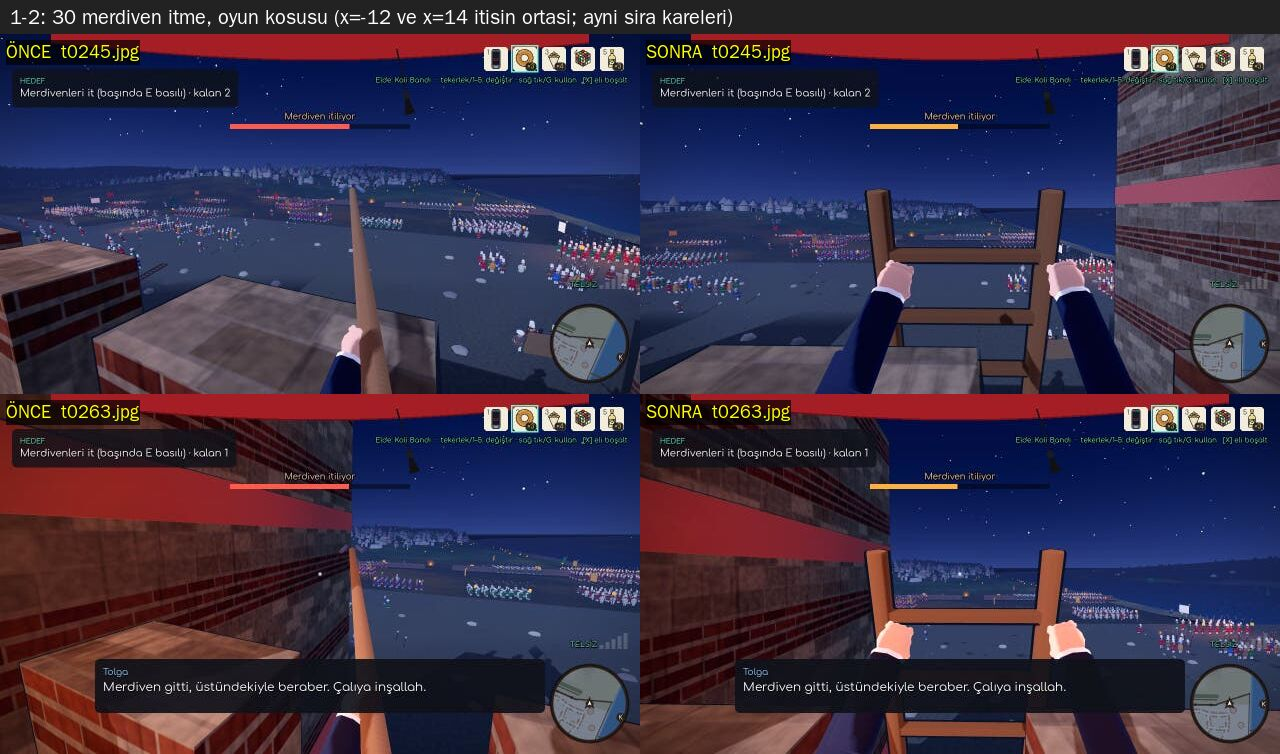
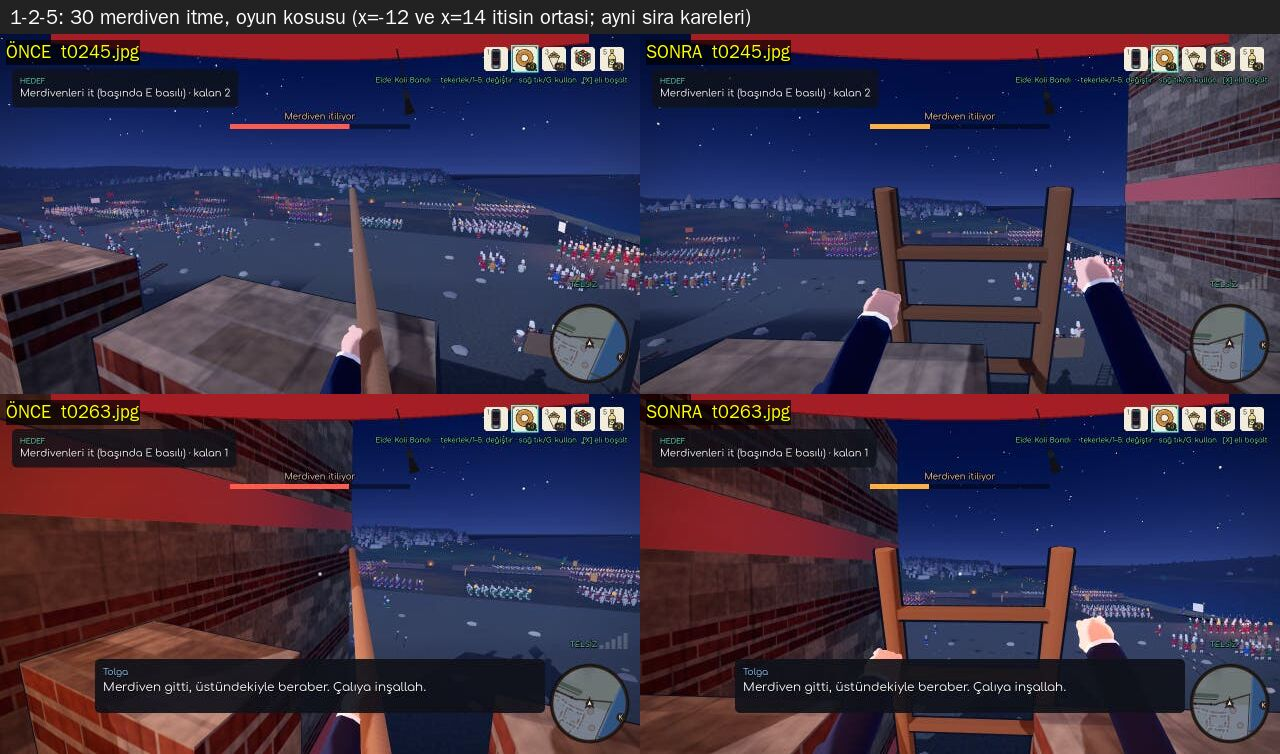
P9 düzeltme: rapor, paftalar, ilk tur raporuna düzeltme notu
Claude-Session: https://claude.ai/code/session_01RAjzxMRjCpkJmqpchgPJpJ

diff --git a/docs/_kanit_dp9/rapor.md b/docs/_kanit_dp9/rapor.md
@@ -1,0 +1,107 @@
+# P9 düzeltme turu — Blakhernai (30, 30o) — geliştirici raporu
+
+Dal: `wip/duzeltme-p9`. Değişen oyun dosyaları yalnız: `scripts/chapter30.gd`, `scripts/chapter30o.gd`,
+`scripts/level/blachernae.gd` (yalnız `_field_wear` ve yeni yardımcısı `_wear_bake`). `player.gd`, `stage.gd`,
+`shadow_body.gd` vb. değişmedi.
+
+**ÖNCE nasıl kuruldu.** Depo dışında bir kopya proje (`/home/user/once_proj`): `chapter30.gd` ve `chapter30o.gd`
+`e551de84`'ten aynen; `blachernae.gd` için `e551de84` sürümü bugünkü ortak dosyalarla derlenmiyor (`shell_parts` yok),
+bu yüzden bugünkü dosya alınıp yalnız `_ground` işlevi `e551de84`'teki hâline (altı ova levhası, ayrıntı yok) döndürüldü.
+(`a5e8111d` = `e551de84` bu üç dosyada.) Depodaki dosyalara dokunulmadı.
+
+**Kanıt türleri.** (a) Oyun koşusu: ekranlı `PACE=1 RINFO=1 … --autotest --hitchaudit --dialogshots --shotevery=1
+--snapevery=0.5`, ÖNCE ve SONRA birer koşu; çiftler aynı replik karesi ya da aynı sıra numaralı anlık kare (`tNNNN`).
+(b) Sonda (adı `sonda_`): `tests/_tmp/` altında geçici betikler (gitignore'da; depoya girmedi, oyun koduna kanca
+konmadı). **Sondalar oynanışı değiştirir:** 30 sondası dört konumun hepsi sınansın diye bölüme iki merdiven daha ekler
+(bot dört merdiveni iter); 30o sondası sur tarafı sınamasında oyuncuyu taşımanın sonunda verilen noktaya ışınlar.
+
+## Madde madde (denetçinin ZORUNLU 1–10'u)
+
+| # | Ne yapıldı (dosya:işlev) | Ölçüm / kare | Durum |
+|---|---|---|---|
+| 1 | Asıl neden: merdiven başı yürüyüş yolunun yalnız 0,1 m üstündeydi, 1,1 m'lik mazgal dişinin arkasında; hiçbir bakıştan görünmüyordu. `chapter30.gd`: merdiven boyu `LAD_H = WALK + 2,3` (baş dişin 0,6 m üstünde; eğim, ayak–sur uzaklığı, tırmanma süresi `CLIMB_TIME` aynı), `_pole_show`: bakış titremeyen merdiven ekseninde dişin üstündeki noktaya (AIM_Y), pitch −30…+10° sınırlı | sonda dört konum (ekranlı 1280×720, itişin ortası): baş (648–650, 313–316) px, hepsi orta üçte birde, baş 9/9 örnekte örtülmüyor. ÖNCE: baş y = 902 (ekran dışı), x = −12/−4/6'da 0/9 görünür. `pafta_01`, `pafta_02a/b` | DÜZELDİ |
+| 2 | `_pole_show`: el noktası kameradan dikmeye giden ışın üstünde 0,62 m derinlikte (Player kutusunun içi); avucun el düğümünden kayması elin dönüş modeliyle düşülür (`_palm_target`); oyuncunun eli hedefi bir kare geç uyguladığı ölçüldü (Player._process bölüm döngüsünden önce) → dikme bir sonraki karenin bakışıyla izdüşürülür | sonda, avuç ortası–dikme noktası: sol 4–8 px, sağ 13–17 px (ekranlı); başsız 2–7 px. Dikme noktası 2/2 dişin üstünde görünür (taşın içinde değil) | DÜZELDİ |
+| 3 | `_pole_show`/`_look_back`: itiş başında bakış (yaw, pitch) saklanır, bırakınca 0,3 sn yumuşak (sine) geri; merdiven ovadayken E basılırsa bakış hiç çevrilmez ve geri de çekilmez | sonda: bırakınca pitch −1,0° → −9,1° (itiş öncesi) 0,55 sn içinde, 4/4 itiş. Oyun koşusu `D30_D_DUEL_STAY` ÖNCE ile aynı bakış: `pafta_03` | DÜZELDİ |
+| 4 | `_pole_show`: `rotation.x` yalnız `stage == "climb"` ve `state == "up"` merdivende yazılır/sıfırlanır; ovadaki merdivende eller önündeki taşa dayanır, bakış ve merdiven dokunulmaz | sonda (taşınan merdivenin yanında E, 5 kare): `rotation.x` min = max = sonra = 1,850 | DÜZELDİ (kare yok, sayı) |
+| 5 | Titreme 0,012 → 0,0014 rad (yalnız tırmanılan merdivende); bakış titremeyen eksenden hesaplanır | sonda: merdiven başı ekran sarsıntısı ±0,5…±1,6 px; kamera pitch'i itişin ikinci yarısında 0,05–0,08° değişiyor (yaklaşma, sarsıntı değil) | DÜZELDİ |
+| 6 | `blachernae.gd:_field_wear`: 146 bin → 52 bin üçgen (çakıl/taş/ok/çamur seyreltildi, iz şeritleri 6 → 4 merdiven yerine, sur dibine yakın; 30o açılışına küçük çiğnenmiş alan); x boyunca 5 parça (sert 3, yumuşak 2), her biri görüş konisiyle ayıklanır, `visibility_range_end = 80` | aşağıdaki RINFO tabloları + kesin pay ölçümü | DÜZELDİ (bir RINFO örneği gürültülü, aşağıda) |
+| 7 | 30o başlangıç yerinin önüne (oyuncunun gördüğü 4–14 m bandı) saflardan gelen iz şeritleri, çakıl, çamur; izler/çamur zeminden koyu, çakıl açık | `pafta_07`: D30O_N_01 oyun koşusu ÖNCE | SONRA + aynı bakışta 1280 px kırpım: SONRA'da Zağanos'un önünde koyu iz dizisi ve açık çakıl benekleri; soldaki iri beyaz taş ÖNCE'de de var (bana ait değil) | DÜZELDİ |
+| 8 | `chapter30o.gd:_carry_ladder/_carry_grip/_carry_pts`: yandaki iki asker merdivenin iki yanında, **yüzü dikmesine dönük** (sura dönükken uzak kol dikmeye yetişmiyordu: ölçülen kol açığı 0,18–0,21 m); arkadaki yüzü sura, basamakta. Ayak oturtma tutuştan (gövde eğiminden) sonra işler. Askerler yerlerine kendi şeritlerinden (merdiven ekseninden 1,9 m) koşar adımla yürür; merdiven kolun yetişeceği yere inmeden tutmazlar | sonda (5 başlangıç), sabit duruşta gerçek avuç (dirsek + el ofseti)–hedef: ≤ 0,049 m; taban–zemin 0,000 m; askerler arası en az 0,94 m (sonda yolu boyunca sürekli). `pafta_08`, `pafta_09` | DÜZELDİ |
+| 9 | `_carry_ladder`: oyuncu arkadan (ovadan) geldiyse düz geri (merdiven + 3,6 m); yandan ya da sur tarafından geldiyse adaylar arasından askerlerin duracağı yerlere ve merdiven ayağına en geniş açıklığı bırakan yol (`_path_clear`): önce yana/sur tarafına, sonra yanda geri | sonda, oyuncu–asker (iki örnek arası doğrusal, sürekli): arkadan 1,90 m; (9,4; 6,4) 1,74; (10,8; 6,6) 0,73*; (12,0; 8,2) 1,44; (8,6; 9,0) 1,74. *Oyuncu merdiven ayağının 0,75 m yanında başlıyor; en yakın değer başlangıçta | DÜZELDİ (sur tarafı da sınandı) |
+| 10 | Rapor dürüstlüğü: aşağıda "oynanış değişiklikleri" ve `docs/_kanit_p9/rapor.md` sonuna düzeltme notu | — | YAPILDI |
+
+### Oynanış değişiklikleri (betikle oyuncu ve dünya)
+- 30: E basılıyken bakış merdiven başına çekilir (yumuşak, 5/sn), bırakınca 0,3 sn'de itişten önceki bakışa döner.
+  Denetim: E basılıyken fare bakışı ezilir (ÖNCE'de de öyleydi). Merdivenler 1,7 m uzun (görünüş ve tırmananın hızı:
+  aynı 11 sn'de 13,2 m yerine 15 m çıkılır). Kazanma/kaybetme, süre, sayaç değişmedi.
+- 30o: kaldırma sırasında oyuncunun konumu ve bakışı betikle değişir: 0,9–1,6 sn, 1,5–7 m (sur tarafından gelince en
+  uzun), sine yumuşak; ÖNCE'de oyuncu yerinde, merdivene sırtı dönük duruyordu (`pafta_08` sol). Askerlerin yürüyüşü
+  0,6 sn'den (11 m/sn'ye varan kayma) 4,5 m/sn koşar adıma çıktı; en uzak asker yerine 1,5–2 sn'de varır (1,3 + 1,2 sn
+  bekleme süresi değişmedi).
+
+## RINFO (ekranlı, `--hitchaudit`; her `PACE say key=` satırından sonraki ilk üç RINFO)
+
+| An | Örnek | Çizim ÖNCE→SONRA | Üçgen ÖNCE→SONRA | Δ üçgen |
+|---|---|---|---|---|
+| 30 `D30_D_LADDERS` | 0/1/2 | 4724→4731 · 4989→5006 · 4771→4825 | 6609k→6669k · 6738k→6776k · 6626k→6668k | +0,9 / +0,6 / +0,6 % |
+| 30 `D30_T_EMPEROR` | 0/1/2 | 1967→1950 · 2055→1927 · 1762→2039 | 1365k→1396k · 1361k→1389k · 1347k→1397k | +2,3 / +2,1 / +3,7 % |
+| 30 `D30_N_END` | 0/1/2 | 2055→2039 · 1762→1737 · 1780→1766 | 1361k→1397k · 1347k→1381k · 1361k→1406k | +2,6 / +2,5 / +3,3 % |
+| 30o `D30O_N_01` | 0/1/2 | 2049→2039 · 1970→1844 · 2177→2436 | 2783k→2748k · 2750k→2922k · 2978k→3189k | −1,3 / +6,3 / +7,1 % |
+| 30o `D30O_Z_URBAN` | 0/1/2 | 1970→1844 · 2177→2436 · 2942→3365 | 2750k→2922k · 2978k→3189k · 3581k→3990k | +6,3 / +7,1 / **+11,4 %** |
+| 30o `D30O_T_TOWER_WON` | 0/1/2 | 3403→3003 · 3472→3404 · 3655→3595 | 2621k→2137k · 2689k→2686k · 2624k→2632k | −18,5 / −0,1 / +0,3 % |
+| 30o `D30O_T_EMPEROR` | 0/1/2 | 3520→3643 · 3863→3742 · 3969→3992 | 2671k→2667k · 2979k→2972k · 3099k→3228k | −0,1 / −0,2 / +4,2 % |
+| 30o `D30O_N_END` | 0/1/2 | 5084→5317 · 5109→5074 · 5098→5101 | 4569k→4475k · 4609k→4471k · 4493k→4460k | −2,1 / −3,0 / −0,7 % |
+
+İki koşunun RINFO'su 2 sn'lik oyun zamanında farklı karelere düşüyor (kalabalık, kamera). `Z_URBAN` örnek 2'de (+%11,4)
+ve `N_01`/`Z_URBAN` çiziminde −126…+423 fark var; beş ova parçası en çok 5 çizim ekleyebilir, yani bu fark ova
+ayrıntısından gelemez. Bunu ayırmak için **aynı koşuda aynı anda ölçüm** (sonda `prinfo`): ova parçaları açık/kapalı
+ardışık kareler ve görüş konisine giren parçaların kesin üçgen toplamı (parça ya tümüyle çizilir ya hiç):
+
+| An | Görüşteki parça | Kesin pay (üçgen) | Aç/kapa ardışık kare farkı (3 tekrar) |
+|---|---|---|---|
+| 30 `D30_D_LADDERS` / itiş | 5/5 | 52.156 = %0,8 | −0,95 / +0,05 / +0,62 % · itiş +3,5 / +0,4 / +1,5 % |
+| 30 `D30_T_EMPEROR` | 3/5 | 30.028 = %2,2 | +2,8 / +1,7 / +2,1 % |
+| 30 `D30_N_END` | 3/5 | 30.028 = %2,3 | +0,6 / +5,1 / +3,7 % |
+| 30o `D30O_N_01` | 4/5 | 49.384 = %1,9 | +5,5 / −0,4 / −2,1 % |
+| 30o `D30O_Z_URBAN` | 4/5 | 49.384 = %1,7 | +4,8 / −9,8 / +5,4 % |
+| 30o `D30O_T_TOWER_WON` | 3/5 | 30.028 = %1,4 | +2,1 / +1,8 / +1,7 % |
+
+Çizim: ova parçaları görüşte en çok 5 çizim ekler; ÖNCE'deki altı ova levhası bire indi (−5). Aç/kapa farkı +0…+21
+(kalabalık gürültüsü dahil). Sonuç: ova ayrıntısının payı her ölçülen anda ≤ %2,3; ham RINFO'daki tek +%8 üstü örnek
+gürültü (yukarıdaki gerekçe). Bunu kesin değil "ölçüm yöntemi farkı" olarak not ediyorum.
+
+## Testler (başsız, `--max-fps 20`, son kod)
+- 30: `""`, `lose`, `bridge_ok`, `bridge_bad` → **4/4 PASS** (son 30 değişikliğinden sonra yeniden koşuldu).
+- 30o: `""`, `lose`, `sprint`, `stonehit` → **4/4 PASS** (30o ve blachernae son hâli).
+- 24 (5), 25 (7), 26 (14), 31o (4) → **30/30 PASS** (Blachernae yalnız 30/30o'da kullanılıyor).
+- Yasaklı satırlar (`SCRIPT ERROR`, `WARN_FX_STUCK`, `WARN_FLY_ITEM`, `VISAUDIT`, `WARN_VOID_TELEPORT`, `WALKTHRU`,
+  `ARMAUDIT`, `HELDAUDIT`, `LOOKAUDIT backturn`, `JOURNEY_*`): **hiçbirinde yok** (30o `lose` dahil). `parse_check` PASS (248).
+- Ekranlı: 30 ÖNCE/SONRA PASS; 30o ÖNCE PASS; 30o SONRA resmi koşu oturum yeniden başlarken son replikte
+  (`D30O_N_END`) kesildi, AUTOTEST satırı yazılamadı (karelerin ve RINFO'nun hepsi alınmıştı); aynı kodla iki ayrı
+  ekranlı 30o koşusu (prinfo, sonda) PASS.
+
+## Gölge gövdesi (dosyaya dokunulmadı)
+- 30o taşıma (`pafta_10`): yerde tek insan gölgesi, kolu taşınan merdivenin gölgesine uzanıyor; çifte gölge yok.
+- 30 itiş: gece, sur taşının üstünde oyuncu gölgesi karelerde seçilmiyor → kolların ellere uzanıp uzanmadığı **KANITSIZ**.
+
+## Ortak dosya önerileri
+- `Player._hold_both_tick` hedefi bir kare geç uyguluyor (bölüm döngüsü `process_frame`'de, oyuncu `_process`'i
+  önce işliyor gibi). Bölümler bunu bilmeden hedef verirse bakış dönerken eller kayar. Öneri: hedef `target` düğümüne
+  bağlıyken noktayı tick anında okumak zaten yapılıyor; kamera yerelindeki hedefler için `hold_both`'a "dünya noktası +
+  derinlik" biçimi:
+  ```gdscript
+  func hold_both_ray(left_w: Vector3, right_w: Vector3, depth := 0.62) -> void:   # tick anında kamerayla izdüşür
+  	_both_ray = [left_w, right_w, depth]
+  ```
+- `_hold_both_points` kutusu (y ≤ 0,05, z ≥ −0,75): bu turda kutunun içine düşen noktalar seçildi; değişiklik gerekmedi.
+
+## Bakamadıklarım / açık
+- 30o yan kamerada askerlerin avuçları: `sonda_p30o_capraz` paftası raporla aynı kayıtta değilse (koşu sürüyordu)
+  bir sonraki kayıtta eklenir; sayısal ölçüm yukarıda.
+- 30o `lose/sprint/stonehit` ekranlı koşu: BAKILMADI (başsız PASS).
+- Gerçek fare/klavye ile itiş: BAKILMADI (bot ve sonda).
+
+## Paftalar
+`pafta_01` (30 itiş, oyun) · `pafta_02a/b` (sonda, dört konum) · `pafta_03` (itiş sonrası bakış, DUEL_STAY) ·
+`pafta_06a/06b` (bütçe anlarının görünüşü) · `pafta_07` (30o N_01 ova) · `pafta_08` (30o kaldırma, oyun) ·
+`pafta_09` (sonda, 30o kaldırma çapraz kamera) · `pafta_10` (gölge, taşıma).

diff --git a/docs/_kanit_p9/rapor.md b/docs/_kanit_p9/rapor.md
@@ -39,3 +39,12 @@ yüzden o evreler için oran verilemez: BAKILMADI (ham dökümler yerelde, `/tmp
 ## Bakamadıklarım / açık
 - 30'un `_fight`/imparator evresi ve 30o'nun kule/geri çekilme/kovalama evreleri tam gezilmedi (yalnız çekirdek kareler).
 - Ekranlı 30o testi bu makinede FAIL (özgün de FAIL).
+
+## DÜZELTME NOTU (P9 düzeltme turu, denetim `docs/_ajan/denetim/p9.md` madde 10)
+Bu raporun şu ifadeleri yanlıştı ya da doğrulanamıyordu; geçerli değerler `docs/_kanit_dp9/rapor.md`'de:
+- "iz ve çakıl seçiliyor" (`D30O_N_01`): YANLIŞ — o karede ova ayrıntısı hiç çizilmiyordu (oyuncu alanın dışında, sırtı dönük).
+- "palm hatası 0,0–0,17 m": YANLIŞ — denetçi 1. ve 2. askerde 0,15–0,27 m ölçtü.
+- "3,6 m geri çekilme": YANLIŞ — gerçek yol 1,9–3,2 m.
+- "titreme KANITSIZ": YANLIŞ — ölçüldü, merdiven başı ±50 px, görünür ve fazlaydı.
+- "eller dikmelerin üstünde" / "baş kadrajda": YANLIŞ — eller dikmelerden 25–110 px aşağıda, baş mazgal dişinin arkasındaydı.
+- Eksik beyan: kaldırma sırasında oyuncunun konumu ve bakışı betikle değişiyordu; itişte bakış merdivene çekiliyor ve geri verilmiyordu.
